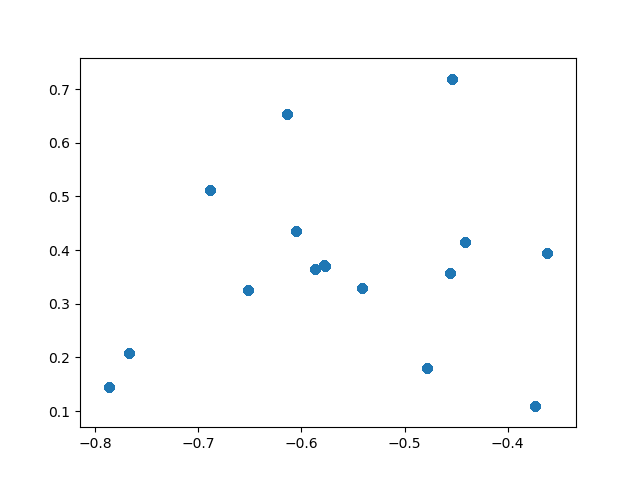
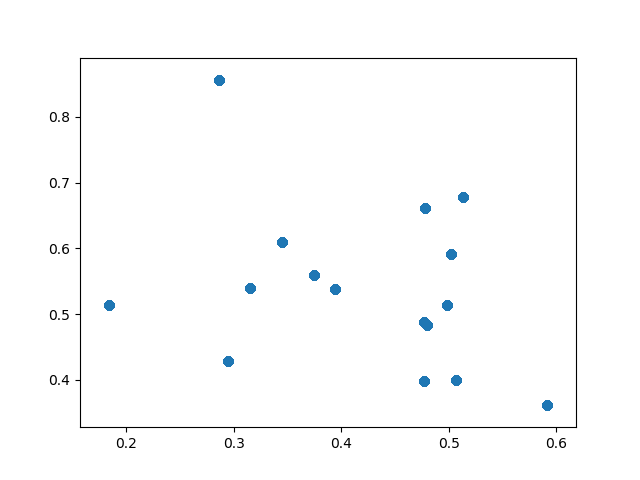
added convolution layer as a model for some type of filter. it doesn't really work tho because it doesn't really represent any practical filter lul

diff --git a/radio_transformer_networks.py b/radio_transformer_networks.py
@@ -15,14 +15,15 @@ NUM_EPOCHS = 300
 BATCH_SIZE = 256
 
 # Comms parameters
-CHANNEL_USE = 2 # The parameter n
+CHANNEL_USE = 7 # The parameter n
 BLOCK_SIZE = 4 # The parameter k
+NUM_TAPS = 100 # Length of impulse response of bandpass filter
 
 # Torch parameters
 USE_CUDA = True 
 
 class Net(nn.Module):
-    def __init__(self, in_channels, compressed_dim, snr):
+    def __init__(self, in_channels, compressed_dim, snr, num_taps):
         super(Net, self).__init__()
         self.in_channels = in_channels
         self.compressed_dim = compressed_dim
@@ -34,12 +35,13 @@ class Net(nn.Module):
         )
 
         self.decoder = nn.Sequential(
-            nn.Linear(compressed_dim, in_channels),
+            nn.Linear(compressed_dim + num_taps - 1, in_channels),
             nn.LeakyReLU(inplace=True),
             nn.Linear(in_channels, in_channels)
         ) 
+        self.conv1 = nn.Conv1d(1, 1, num_taps, padding=num_taps-1, bias=False)
 
-    def decode_signal(self, x):
+    def decode(self, x):
         return self.decoder(x)
 
     def encode(self, x):
@@ -54,6 +56,7 @@ class Net(nn.Module):
         return x
 
     def forward(self, x):
+        batch_size = len(x)
         x = self.encode(x)
 
         # 7dBW to SNR.
@@ -67,7 +70,14 @@ class Net(nn.Module):
         if USE_CUDA: noise = noise.cuda()
         x += noise
 
-        x = self.decoder(x)
+        x = x.view(batch_size, 1, -1)
+        #print('conv input: ', x.size())
+        x = self.conv1(x) # Represents bandpass filter
+        #print('conv output: ', x.size())
+        x = x.view(batch_size, -1)
+
+        #print('before decoder: ', x.size())
+        x = self.decode(x)
 
         return x
 
@@ -94,6 +104,7 @@ if __name__ == "__main__":
 
         # Training
         snrs_db = np.linspace(-4, 9, num=14)
+        snrs_db = [1]
         for snr in snrs_db:
             loss_list = []
             acc_list = []
@@ -107,42 +118,43 @@ if __name__ == "__main__":
             # use. This is because we wish the autoencoder to learn an optimal
             # coding scheme, so the middle layer should encode a vector of length
             # n.
-            model = Net(2**BLOCK_SIZE, compressed_dim=CHANNEL_USE, snr=snr)
+            model = Net(2**BLOCK_SIZE, compressed_dim=CHANNEL_USE, snr=snr, num_taps=NUM_TAPS)
             if USE_CUDA: model = model.cuda()
             optimizer = Adam(model.parameters(), lr=0.001)
 
-            with imageio.get_writer('results/gifs/total_norm_16_snr_'+str(snr)+'.gif', mode='I') as writer:
-                for epoch in range(NUM_EPOCHS): 
-                    for batch_idx, (batch, labels) in enumerate(training_loader):
-                        if USE_CUDA:
-                            batch = batch.cuda()
-                            labels = labels.cuda()
-                        output = model(batch)
-                        loss = loss_fn(output, labels)
+            #with imageio.get_writer('results/gifs/total_norm_16_snr_'+str(snr)+'.gif', mode='I') as writer:
+            for epoch in range(NUM_EPOCHS): 
+                for batch_idx, (batch, labels) in enumerate(training_loader):
+                    if USE_CUDA:
+                        batch = batch.cuda()
+                        labels = labels.cuda()
+                    output = model(batch)
+                    loss = loss_fn(output, labels)
 
-                        model.zero_grad()
-                        loss.backward()
-                        optimizer.step()
-                        if batch_idx % (BATCH_SIZE-1) == 0:
-                            pred = torch.argmax(output, dim=1)
-                            acc = accuracy(pred, labels)  
-                            print('Epoch %2d for SNR %s: loss=%.4f, acc=%.2f' % (epoch, snr, loss.item(), acc))
-                            loss_list.append(loss.item())
-                            acc_list.append(acc)
+                    model.zero_grad()
+                    loss.backward()
+                    optimizer.step()
+                    if batch_idx % (BATCH_SIZE-1) == 0:
+                        pred = torch.argmax(output, dim=1)
+                        acc = accuracy(pred, labels)  
+                        print('Epoch %2d for SNR %s: loss=%.4f, acc=%.2f' % (epoch, snr, loss.item(), acc))
+                        loss_list.append(loss.item())
+                        acc_list.append(acc)
 
-                            train_data = train_data.cuda()
-                            train_codes = model.encode(train_data)
-                            train_codes = train_codes.cpu().detach().numpy()
-                            fig = plt.figure()
-                            plt.scatter(train_codes[:, 0], train_codes[:, 1])
-                            plt.savefig('results/images/foo'+str(epoch)+'.png')
-                            fig.clf()
-                            plt.close()
-                            image = imageio.imread('results/images/foo'+str(epoch)+'.png')
-                            writer.append_data(image)
+                        #train_data = train_data.cuda()
+                        #train_codes = model.encode(train_data)
+                        #train_codes = train_codes.cpu().detach().numpy()
+                        #fig = plt.figure()
+                        #plt.scatter(train_codes[:, 0], train_codes[:, 1])
+                        #plt.savefig('results/images/foo'+str(epoch)+'.png')
+                        #fig.clf()
+                        #plt.close()
+                        #image = imageio.imread('results/images/foo'+str(epoch)+'.png')
+                        #writer.append_data(image)
 
 
-                torch.save(model.state_dict(), './models/model_state_'+str(snr))
+            torch.save(model.state_dict(), './models/model_with_conv'+str(snr))
+            print(list(model.parameters()))
 
     else:
         test_labels = (torch.rand(1500) * CHANNEL_SIZE).long()

diff --git a/conv_plotter.py b/conv_plotter.py
@@ -1,0 +1,23 @@
+import torch
+from torch import nn
+import numpy as np
+import matplotlib.pyplot as plt
+plt.switch_backend('agg')
+from Dataset import Dataset
+from torch.optim import Adam, RMSprop
+import math
+from torch.autograd import Variable
+from radio_transformer_networks import Net, CHANNEL_USE, BLOCK_SIZE, NUM_TAPS
+
+snr = 1
+model = Net(2**BLOCK_SIZE, compressed_dim=CHANNEL_USE, snr=snr, num_taps=NUM_TAPS)
+model.load_state_dict(torch.load('./models/model_with_conv'+str(snr)))
+
+for name, param in model.named_parameters():
+    if name == 'conv1.weight':
+        p = param.data.numpy()
+        print(type(p))
+        print(p.shape)
+        p = p.reshape(-1)
+        plt.plot(p)
+        plt.savefig('filter_coeff.png')
